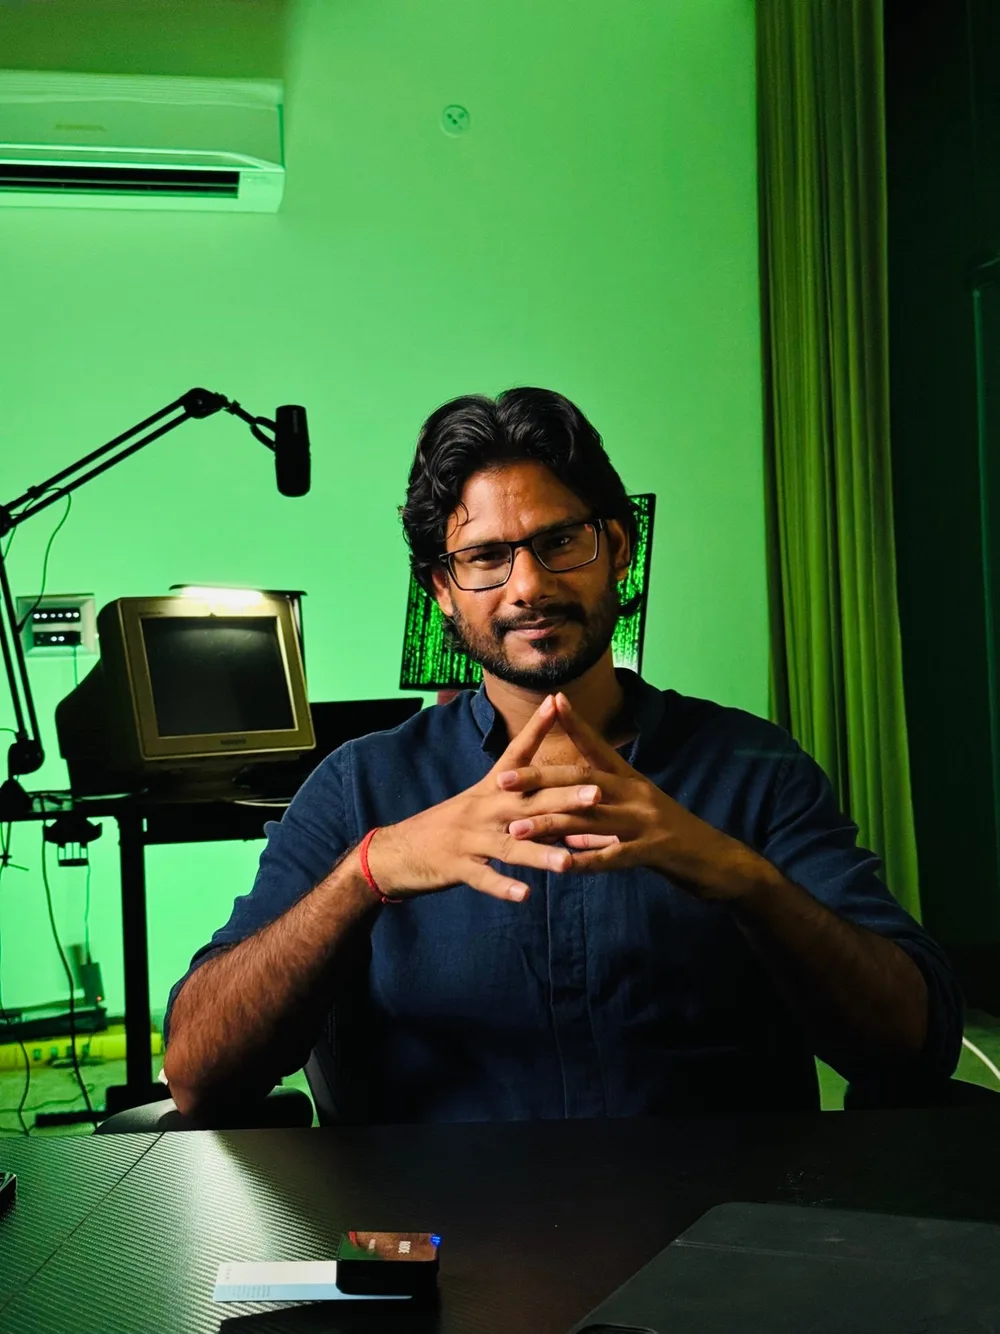
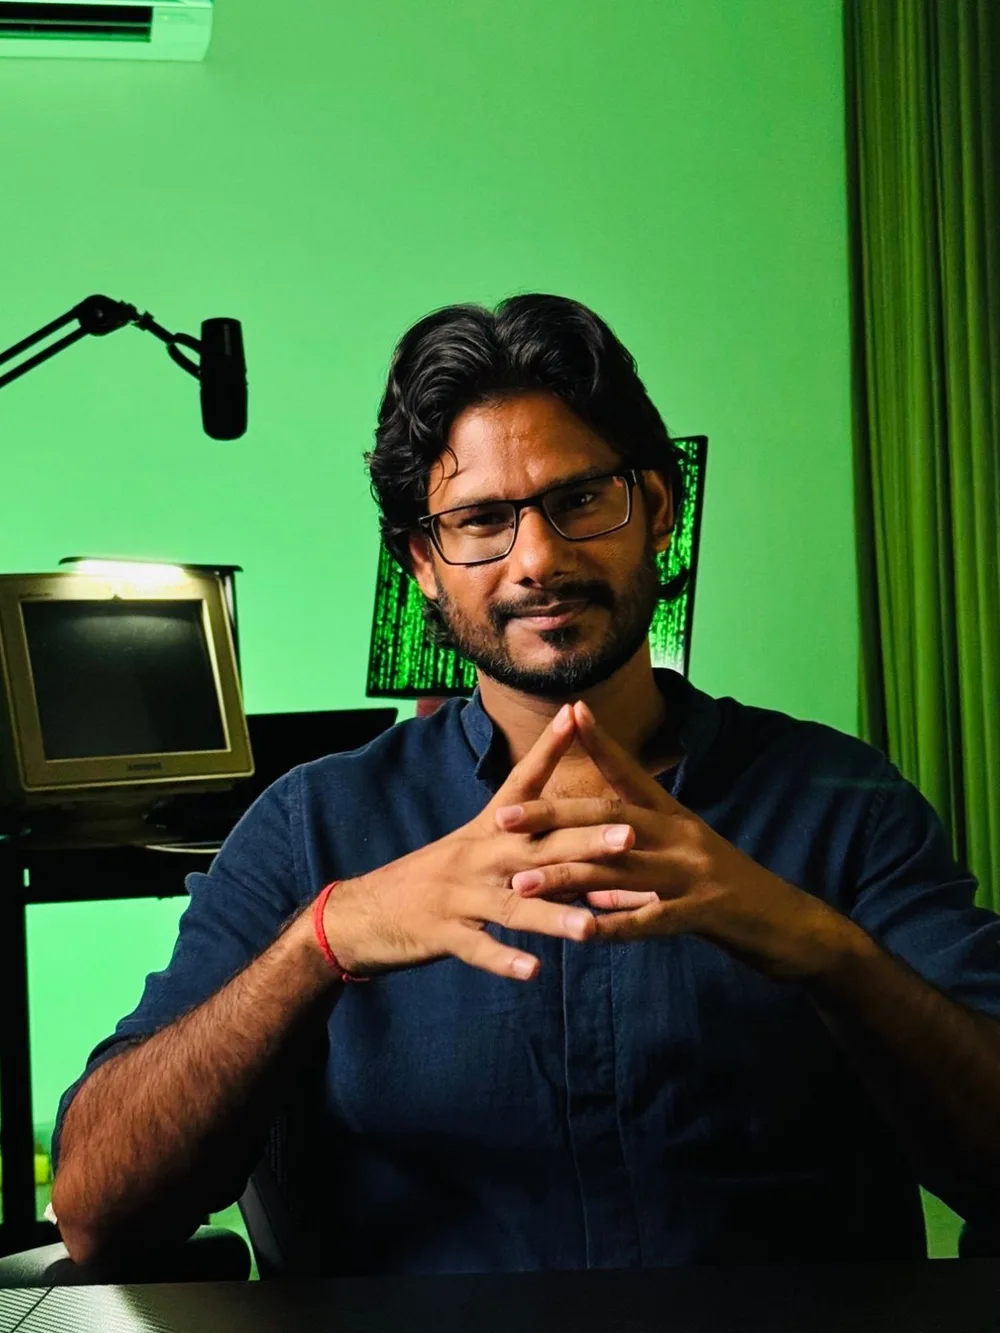
Add officer attribution cards, swap in the reach plate, and centre-crop the about photo

diff --git a/src/components/reach-section.tsx b/src/components/reach-section.tsx
@@ -41,20 +41,15 @@ const LiquidMetalButton = lazy(() =>
  *
  * ## The photograph
  *
- * `02-agencies.webp`, out of the journey section's graded set - a studio
- * headshot on a white ground, and a plate with its own background rather than
- * a cut-out.
+ * `reach.jpg`, a 3:2 plate (1280x853) supplied for this card. It replaces
+ * `02-agencies-wide.webp`, the journey set's studio headshot that used to sit
+ * here - about keeps its cut-out to itself, and this section gets its own
+ * photograph instead of borrowing the journey section's.
  *
- * Two things follow from that. First, it ends a duplicate: the card used to
- * run `gautam-figure.png`, which is also the about section's cut-out, and
- * public/ holds exactly two cut-outs, both from the same shoot, so two
- * sections that each wanted a free-standing figure had to share one. About
- * keeps it to itself now. Second, the frame holds a rectangle, so everything
- * that used to sit behind a cut-out figure had to go - see the inline note.
- *
- * The white ground is kept deliberately. It makes this the one cut to daylight
- * on the page outside the press wall, which means this section no longer
- * carries a saturated blue surface; the accent here is the shader button.
+ * The card and the file are the same shape, which is why there is no
+ * `object-position` to tune. The plate keeps whatever ground it was shot on,
+ * so there is nothing layered over it: no wash, no blend, no ring, no sheen.
+ * White on near-black draws its own edge.
  *
  * ⚠ PLACEHOLDER FIGURES. The four counts below are taken from the reference
  * design that inspired the original layout - they are NOT Gautam's real
@@ -122,49 +117,24 @@ export function ReachSection() {
 					</figure>
 				</Reveal>
 
-				<div className="mt-8 grid gap-8 sm:mt-10 lg:grid-cols-[55%_minmax(0,1fr)] lg:items-center lg:gap-14">
+				<div className="mt-8 grid gap-8 sm:mt-10 lg:grid-cols-[47%_minmax(0,1fr)] lg:items-center lg:gap-14">
 					<Reveal direction="right">
-						{/* 2:1 at 55% of the measure, where this was 4:3 inside a fixed
-						    22rem column - the proportion and the share the reference for
-						    this block carries.
-
-						    The fixed cap it replaces was there for a reason worth
-						    restating: an `fr`-sized column once rendered this card at
-						    574x431 and that alone was most of what pushed the section past
-						    one screen. This is wider than that (634px) and still costs
-						    less height, because 2:1 is so much shallower than 4:3: 317px
-						    against 431. The section runs a little past one screen as a
-						    result, which is the trade the width asked for.
-
-						    A ratio, not a crop. See the reach job in
-						    build-journey-images.mjs: 2:1 cannot be cropped out of this
-						    photograph without taking the top of his head off, so the plate
-						    is built at 2:1 by extending the studio sweep instead. The card
-						    and the file are the same shape, which is why there is no
-						    `object-position` here to tune. */}
-						<figure className="relative m-0 aspect-[2/1] overflow-hidden rounded-[1.5rem]">
-							{/* The plate keeps its own white studio ground, so this card is the
-							    page's one cut to daylight outside the press wall. That is why
-							    there is nothing layered over it: the blue wash this card used to
-							    carry turned the white to a pale periwinkle, and a multiply blend
-							    turned it into a flat blue field - both of them arguments with the
-							    photograph rather than treatments of it. The section still gets
-							    its accent from the shader button directly below.
-
-							    No ring and no sheen for the same reason. A white/10 hairline is
-							    invisible on white, and the old radial highlight was white light
-							    drawn on a white ground. White on near-black draws its own edge.
-
-							    The plate is `02-agencies-wide.webp`, built for this card. It
-							    used to be `02-agencies.webp` - an 800x1000 frame already cut
-							    out of the square original with `top` gravity - cropped a second
-							    time to the card's ratio, and two crops deep there is no
-							    headroom left to bias with `object-position`. */}
+						{/* 3:2 at 47% of the measure - the file's own ratio
+						    (1280x853), so `object-cover` crops nothing and there
+						    is no `object-position` to tune. Kept a touch narrower
+						    than the reference's 55% so the plate sits inside the
+						    section instead of leading it; the shallower height
+						    also pays back into the one-screen budget. */}
+						<figure className="relative m-0 aspect-[3/2] overflow-hidden rounded-[1.5rem]">
+							{/* The plate keeps whatever ground it was shot on, so
+							    there is nothing layered over it: no wash, no blend,
+							    no ring, no sheen. The section gets its accent from
+							    the shader button directly below. */}
 							<img
-								src="/journey/02-agencies-wide.webp"
-								alt="Studio portrait of Gautam Kumawat"
-								width={1600}
-								height={800}
+								src="/reach.jpg"
+								alt="Photograph of Gautam Kumawat"
+								width={1280}
+								height={853}
 								loading="lazy"
 								decoding="async"
 								className="absolute inset-0 h-full w-full object-cover"

diff --git a/src/components/collage-section.tsx b/src/components/collage-section.tsx
@@ -86,9 +86,33 @@ export function CollageSection() {
 			    full-section ground the layer is here to provide. `screen` means the
 			    inset costs nothing visually - the margin it leaves is the plate's
 			    own black, which contributes nothing to the blend either way. */}
+			{/* Masked at the top and bottom edges, because the plate's black is
+			    not black there.
+
+			    The note below says the corners read 0-1. That holds for the left
+			    and right edges (1.1 and 0.8 mean) and not for the top and bottom,
+			    which average 5.8 and 5.0. Screened at 0.5 over a ground of 10 that
+			    composites the field inside this box to about 12.7 - a step of
+			    nearly three levels - and because the layer is inset 6%, the step
+			    landed as a hard horizontal line partway into the section with flat
+			    ink above it. On a near-black ground, three levels across a straight
+			    edge is a seam you can see, and it read as the section boundary
+			    being wrong rather than as a layer edge.
+
+			    The fade rolls the layer to nothing over the outer eighth, so the
+			    lift arrives gradually and there is no edge to catch. Vertical only:
+			    the side edges contribute about half a level, which is under the
+			    threshold where a boundary is visible, and masking them too would
+			    narrow the figure for nothing. */}
 			<div
 				aria-hidden="true"
 				className="pointer-events-none absolute inset-x-[8%] inset-y-[6%] z-0 hidden lg:block"
+				style={{
+					maskImage:
+						"linear-gradient(to bottom, transparent 0%, #000 12%, #000 88%, transparent 100%)",
+					WebkitMaskImage:
+						"linear-gradient(to bottom, transparent 0%, #000 12%, #000 88%, transparent 100%)",
+				}}
 			>
 				{/* `object-cover` and `object-top`: cover scales until the box's
 				    width is met and crops the excess height, which is what reaches

diff --git a/src/components/testimonials-section.tsx b/src/components/testimonials-section.tsx
@@ -59,13 +59,19 @@ const TESTIMONIALS: Omit<PerspectiveCarouselItem, "title">[] = [
 		src: "/testimonials/pankaj-kumar-singh.avif",
 		alt: "Official portrait of Pankaj Kumar Singh",
 		name: "Pankaj Kumar Singh",
-		role: "PSM MSM IPS",
+		role: "PSM MSM IPS", 
+		quote:
+			"Gautam is defined by a rare blend of intense curiosity and quiet precision. always three steps ahead, effortlessly spotting patterns that others overlook..",
+
 	},
 	{
 		src: "/testimonials/navdeep-singh-virk.jpg",
 		alt: "Official portrait of Navdeep Singh Virk",
 		name: "Navdeep Singh Virk",
-		role: "IPS, ADGP of Haryana Police",
+		role: "IPS, ADGP of Haryana Police", 
+		quote:
+			" I am delighted to note that the efforts made by Gautam in  course on “Cyber Crime Investigation & Cyber Security”  in simple and professional manner have been extraordinary. ",
+
 	},
 ];
 
@@ -103,11 +109,11 @@ export function TestimonialsSection() {
 			<div className="mx-auto max-w-6xl">
 				<Reveal>
 					<p className="text-center text-xs font-semibold uppercase tracking-[0.28em] text-white/40">
-						What people say
+						From Those Who Know
 					</p>
 				</Reveal>
 				<h2 className="mt-4 text-center text-4xl font-bold text-white sm:text-5xl">
-					<ScatterText text="About me" spread={26} tilt={26} />
+					<ScatterText text="About Gautam" spread={26} tilt={26} />
 				</h2>
 			</div>
 

diff --git a/src/components/about-section.tsx b/src/components/about-section.tsx
@@ -110,7 +110,7 @@ export function AboutSection() {
 					<div>
 						{/* 3:4 at every size now. The column is roughly 460px wide, and
 						    16:9 inside it is a 260px band - a letterbox, not a portrait.
-						    The uncropped frame stands up in a narrow column the way the
+						    The centered crop stands up in a narrow column the way the
 						    wide cut stood up across a full measure, and it is the file's
 						    own ratio, so `object-cover` crops nothing. The ring is the
 						    page's own hairline, the same one the gallery and collage
@@ -122,7 +122,7 @@ export function AboutSection() {
 									src="/about/studio.webp"
 									alt="Gautam Kumawat at his studio desk, hands steepled, a boom microphone, a CRT monitor and a green-lit wall behind him"
 									width={1000}
-									height={1334}
+									height={1333}
 									loading="lazy"
 									decoding="async"
 									draggable={false}
